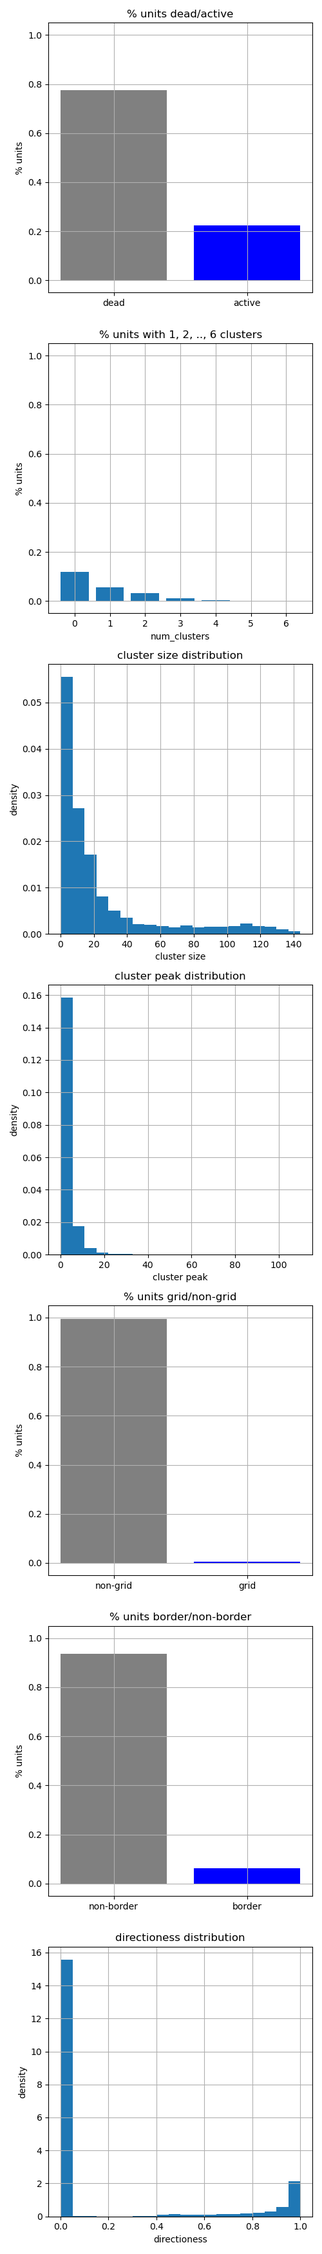
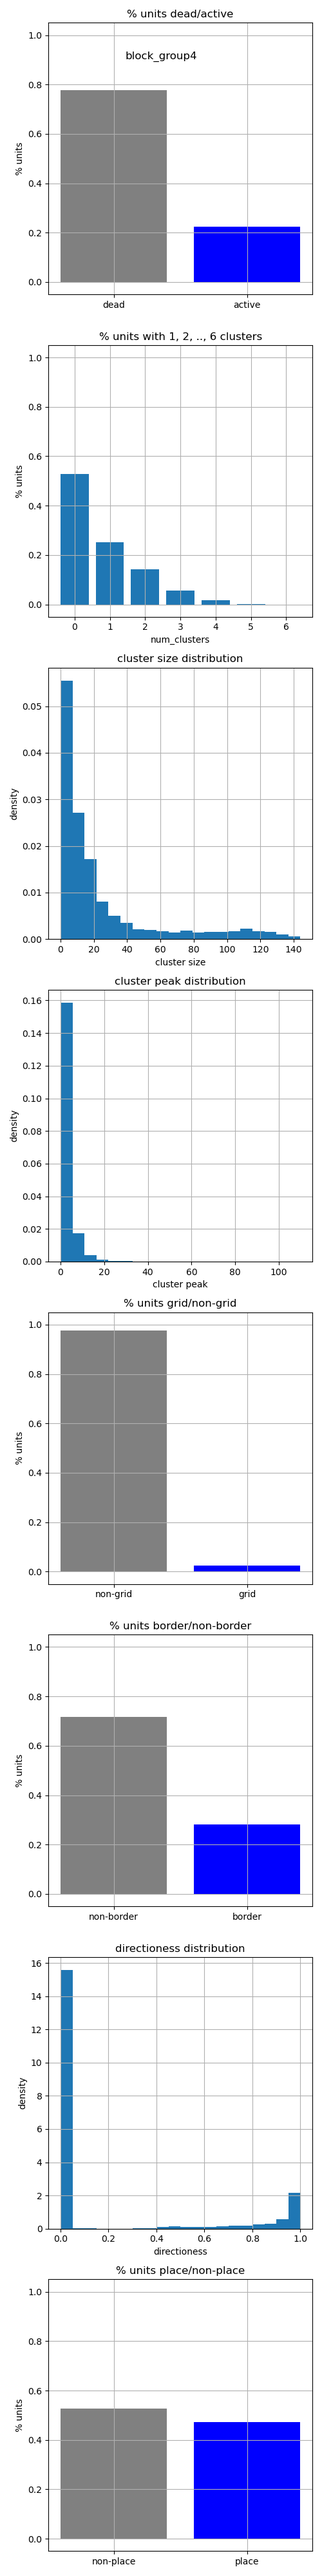
add figs: simclrv2 unit charts

diff --git a/inspect_model_units.py b/inspect_model_units.py
@@ -1814,7 +1814,7 @@ if __name__ == '__main__':
     movement_modes = ['2d']
     sampling_rates = [0.3]
     random_seeds = [42]
-    model_names = ['resnet50']
+    model_names = ['simclrv2_r50_1x_sk0']
     moving_trajectories = ['uniform']
     decoding_model_choices = [{'name': 'ridge_regression', 'hparams': 1.0}]
     feature_selections = ['l2']
